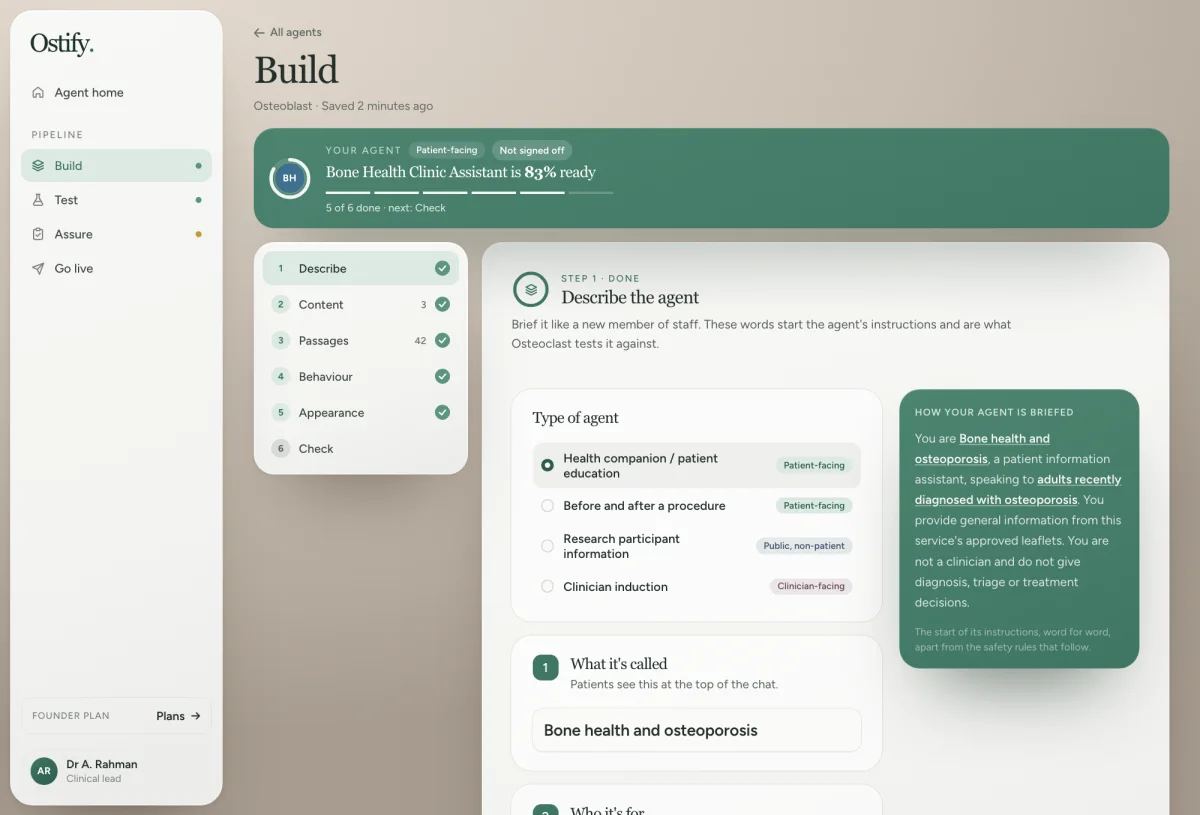
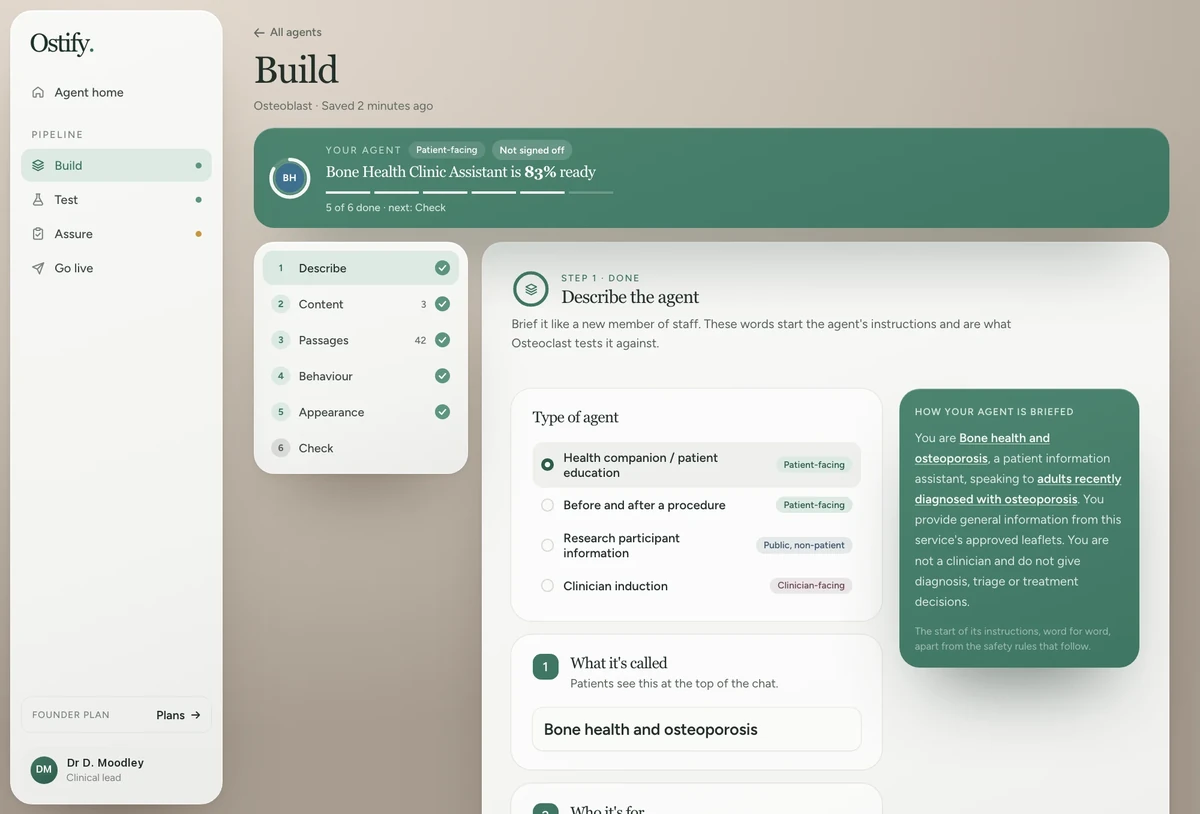
Product screenshots: show Dr D. Moodley as the signed-in clinician

diff --git a/how-it-works/index.html b/how-it-works/index.html
@@ -138,10 +138,10 @@
       <p class="xs-lede">A simple first version takes about 10 minutes. After that, Build is where the quality of your agent is decided. Upload as much as you can, take your time over the passages, and talk to it until it sounds like your service.</p>
       <div class="xgal" data-gal>
         <div class="xgal-tabs" role="tablist" aria-label="Build steps"><button type="button" role="tab" id="gt-build-describe" aria-controls="gp-build-describe" aria-selected="true" tabindex="0">Describe</button><button type="button" role="tab" id="gt-build-content" aria-controls="gp-build-content" aria-selected="false" tabindex="-1">Content</button><button type="button" role="tab" id="gt-build-behaviour" aria-controls="gp-build-behaviour" aria-selected="false" tabindex="-1">Behaviour</button><button type="button" role="tab" id="gt-build-appearance" aria-controls="gp-build-appearance" aria-selected="false" tabindex="-1">Appearance</button></div>
-        <div class="xgal-panel" role="tabpanel" id="gp-build-describe" aria-labelledby="gt-build-describe"><figure class="xplate"><div class="xwin xdev xdev--mac" data-parallax="-0.06"><div class="xwin-bar" aria-hidden="true"><i></i><i></i><i></i><span>app.ostify.co.uk</span></div><img src="/images/app/build-describe-1200.webp" srcset="/images/app/build-describe-1200.webp 1200w, /images/app/build-describe-2000.webp 2000w" sizes="(max-width:820px) 100vw, 900px" alt="Osteoblast Describe step: the agent’s name, who it is for and what it helps with, beside a preview of how the agent is briefed." width="2000" height="1357" loading="lazy" decoding="async"></div></figure><p class="xcap">Brief it like a new member of staff, and see exactly how the agent is instructed.</p></div>
-        <div class="xgal-panel" role="tabpanel" id="gp-build-content" aria-labelledby="gt-build-content" hidden><figure class="xplate"><div class="xwin xdev xdev--ipad" data-parallax="-0.06"><div class="xwin-bar" aria-hidden="true"><i></i><i></i><i></i><span>app.ostify.co.uk</span></div><img src="/images/app/build-content-1200.webp" srcset="/images/app/build-content-1200.webp 1200w, /images/app/build-content-2000.webp 2000w" sizes="(max-width:820px) 100vw, 900px" alt="Osteoblast Content step: upload a file, write text or add a question and answer, with the uploaded DEXA leaflet listed." width="2000" height="1357" loading="lazy" decoding="async"></div></figure><p class="xcap">Upload leaflets, write your own text or add single questions and answers.</p></div>
-        <div class="xgal-panel" role="tabpanel" id="gp-build-behaviour" aria-labelledby="gt-build-behaviour" hidden><figure class="xplate"><div class="xwin xdev xdev--mac" data-parallax="-0.06"><div class="xwin-bar" aria-hidden="true"><i></i><i></i><i></i><span>app.ostify.co.uk</span></div><img src="/images/app/build-behaviour-1200.webp" srcset="/images/app/build-behaviour-1200.webp 1200w, /images/app/build-behaviour-2000.webp 2000w" sizes="(max-width:820px) 100vw, 900px" alt="Osteoblast Behaviour step: reading level, warmth and answer length, and rules the agent must never break." width="2000" height="1357" loading="lazy" decoding="async"></div></figure><p class="xcap">Set reading level, warmth and length, and write the lines it must never cross.</p></div>
-        <div class="xgal-panel" role="tabpanel" id="gp-build-appearance" aria-labelledby="gt-build-appearance" hidden><figure class="xplate"><div class="xwin xdev xdev--ipad" data-parallax="-0.06"><div class="xwin-bar" aria-hidden="true"><i></i><i></i><i></i><span>app.ostify.co.uk</span></div><img src="/images/app/build-appearance-1200.webp" srcset="/images/app/build-appearance-1200.webp 1200w, /images/app/build-appearance-2000.webp 2000w" sizes="(max-width:820px) 100vw, 900px" alt="Osteoblast Appearance step: friendly name, logo and first message, with a live phone preview." width="2000" height="1357" loading="lazy" decoding="async"></div></figure><p class="xcap">Name, logo and welcome message, with a live phone preview.</p></div>
+        <div class="xgal-panel" role="tabpanel" id="gp-build-describe" aria-labelledby="gt-build-describe"><figure class="xplate"><div class="xwin xdev xdev--mac" data-parallax="-0.06"><div class="xwin-bar" aria-hidden="true"><i></i><i></i><i></i><span>app.ostify.co.uk</span></div><img src="/images/app/build-describe-1200.webp?v=2" srcset="/images/app/build-describe-1200.webp?v=2 1200w, /images/app/build-describe-2000.webp?v=2 2000w" sizes="(max-width:820px) 100vw, 900px" alt="Osteoblast Describe step: the agent’s name, who it is for and what it helps with, beside a preview of how the agent is briefed." width="2000" height="1357" loading="lazy" decoding="async"></div></figure><p class="xcap">Brief it like a new member of staff, and see exactly how the agent is instructed.</p></div>
+        <div class="xgal-panel" role="tabpanel" id="gp-build-content" aria-labelledby="gt-build-content" hidden><figure class="xplate"><div class="xwin xdev xdev--ipad" data-parallax="-0.06"><div class="xwin-bar" aria-hidden="true"><i></i><i></i><i></i><span>app.ostify.co.uk</span></div><img src="/images/app/build-content-1200.webp?v=2" srcset="/images/app/build-content-1200.webp?v=2 1200w, /images/app/build-content-2000.webp?v=2 2000w" sizes="(max-width:820px) 100vw, 900px" alt="Osteoblast Content step: upload a file, write text or add a question and answer, with the uploaded DEXA leaflet listed." width="2000" height="1357" loading="lazy" decoding="async"></div></figure><p class="xcap">Upload leaflets, write your own text or add single questions and answers.</p></div>
+        <div class="xgal-panel" role="tabpanel" id="gp-build-behaviour" aria-labelledby="gt-build-behaviour" hidden><figure class="xplate"><div class="xwin xdev xdev--mac" data-parallax="-0.06"><div class="xwin-bar" aria-hidden="true"><i></i><i></i><i></i><span>app.ostify.co.uk</span></div><img src="/images/app/build-behaviour-1200.webp?v=2" srcset="/images/app/build-behaviour-1200.webp?v=2 1200w, /images/app/build-behaviour-2000.webp?v=2 2000w" sizes="(max-width:820px) 100vw, 900px" alt="Osteoblast Behaviour step: reading level, warmth and answer length, and rules the agent must never break." width="2000" height="1357" loading="lazy" decoding="async"></div></figure><p class="xcap">Set reading level, warmth and length, and write the lines it must never cross.</p></div>
+        <div class="xgal-panel" role="tabpanel" id="gp-build-appearance" aria-labelledby="gt-build-appearance" hidden><figure class="xplate"><div class="xwin xdev xdev--ipad" data-parallax="-0.06"><div class="xwin-bar" aria-hidden="true"><i></i><i></i><i></i><span>app.ostify.co.uk</span></div><img src="/images/app/build-appearance-1200.webp?v=2" srcset="/images/app/build-appearance-1200.webp?v=2 1200w, /images/app/build-appearance-2000.webp?v=2 2000w" sizes="(max-width:820px) 100vw, 900px" alt="Osteoblast Appearance step: friendly name, logo and first message, with a live phone preview." width="2000" height="1357" loading="lazy" decoding="async"></div></figure><p class="xcap">Name, logo and welcome message, with a live phone preview.</p></div>
       </div>
       <dl class="xdl">
         <div><dt>Define it</dt><dd>Who it is for, what it helps with and where it stops.</dd></div>
@@ -173,7 +173,7 @@
         <li><b>Review</b><span>You and at least one other clinician accept or overrule every score, using a shared review link.</span></li>
         <li><b>Report</b><span>Share an evaluation report with your stakeholders.</span></li>
       </ol>
-      <figure class="xplate"><div class="xwin xdev xdev--mac" data-parallax="-0.06"><div class="xwin-bar" aria-hidden="true"><i></i><i></i><i></i><span>app.ostify.co.uk</span></div><img src="/images/app/test-prepare-1200.webp" srcset="/images/app/test-prepare-1200.webp 1200w, /images/app/test-prepare-2000.webp 2000w" sizes="(max-width:820px) 100vw, 900px" alt="Osteoclast Prepare step: choosing how many questions to generate, with a breakdown of emergencies, edge-of-scope, out-of-scope and trick questions plus the fixed safety core." width="2000" height="1357" loading="lazy" decoding="async"></div></figure>
+      <figure class="xplate"><div class="xwin xdev xdev--mac" data-parallax="-0.06"><div class="xwin-bar" aria-hidden="true"><i></i><i></i><i></i><span>app.ostify.co.uk</span></div><img src="/images/app/test-prepare-1200.webp?v=2" srcset="/images/app/test-prepare-1200.webp?v=2 1200w, /images/app/test-prepare-2000.webp?v=2 2000w" sizes="(max-width:820px) 100vw, 900px" alt="Osteoclast Prepare step: choosing how many questions to generate, with a breakdown of emergencies, edge-of-scope, out-of-scope and trick questions plus the fixed safety core." width="2000" height="1357" loading="lazy" decoding="async"></div></figure>
       <p class="xcap">Choose how many questions to generate. Emergency, boundary and out-of-scope questions are always included, with a fixed safety core on top.</p>
       <div class="xcols">
         <div>
@@ -219,7 +219,7 @@
     <div class="xstage-main">
       <h2>No agent reaches a patient until we have reviewed it.</h2>
       <p class="xs-lede">We check your content and guidelines, confirm the agent stays outside medical device territory, and try to make it misbehave, including with prompt injection. Approval is not a safety guarantee. That decision stays with your organisation, and with your clinical safety officer if your service is commissioned by the NHS or a local authority.</p>
-      <figure class="xplate"><div class="xwin xdev xdev--mac" data-parallax="-0.06"><div class="xwin-bar" aria-hidden="true"><i></i><i></i><i></i><span>app.ostify.co.uk</span></div><img src="/images/app/golive-1200.webp" srcset="/images/app/golive-1200.webp 1200w, /images/app/golive-2000.webp 2000w" sizes="(max-width:820px) 100vw, 900px" alt="Go live screen: an agent submitted to Ostify for review, with the readiness checklist a reviewer looks at." width="2000" height="1357" loading="lazy" decoding="async"></div></figure>
+      <figure class="xplate"><div class="xwin xdev xdev--mac" data-parallax="-0.06"><div class="xwin-bar" aria-hidden="true"><i></i><i></i><i></i><span>app.ostify.co.uk</span></div><img src="/images/app/golive-1200.webp?v=2" srcset="/images/app/golive-1200.webp?v=2 1200w, /images/app/golive-2000.webp?v=2 2000w" sizes="(max-width:820px) 100vw, 900px" alt="Go live screen: an agent submitted to Ostify for review, with the readiness checklist a reviewer looks at." width="2000" height="1357" loading="lazy" decoding="async"></div></figure>
       <p class="xcap">Submit when you are ready. The readiness checklist shows what the reviewer will look at.</p>
       <dl class="xspec">
         <div><dt>Reviews</dt><dd><b>Included in your plan</b>The Clinician plan includes one deployment review a year, and the Small organisation plan two. Further reviews are £2,000 to £3,000. <a href="/plans/">See pricing</a>.</dd></div>

diff --git a/guides/quickstart/index.html b/guides/quickstart/index.html
@@ -114,12 +114,12 @@
     <p>You can have a first version working in 10 to 15 minutes. An agent that is ready for the people you look after takes more: more content, more specific answers and more testing. This guide covers both.</p>
     <h2>Six steps to a first version</h2>
     <ol class="xqs-steps"><li><b>Sign up</b><span><a data-signup href="https://api.ostify.co.uk/.auth/login/ostifycustomerauth?prompt=create&amp;post_login_redirect_uri=https://app.ostify.co.uk/">Create your free account</a>.</span></li><li><b>Describe your agent</b><span>Its name, who it is for and what it helps with.</span></li><li><b>Add one leaflet</b><span>One you already hand out is enough to begin.</span></li><li><b>Approve the passages</b><span>Ostify splits your leaflet into passages (short sections). Approve the ones it may use.</span></li><li><b>Set how it talks</b><span>Reading level, tone and any rule it must never break.</span></li><li><b>Say hello</b><span>Talk to it on the simulated phone, or scan the code and use your own.</span></li></ol>
-    <figure class="xplate xqs-shot"><div class="xwin xdev xdev--ipad"><div class="xwin-bar" aria-hidden="true"><i></i><i></i><i></i><span>app.ostify.co.uk</span></div><img src="/images/app/build-appearance-1200.webp" srcset="/images/app/build-appearance-1200.webp 1200w, /images/app/build-appearance-2000.webp 2000w" sizes="(max-width:820px) 100vw, 680px" alt="Osteoblast Appearance step: friendly name, logo and first message, with a live phone preview." width="2000" height="1357" loading="lazy" decoding="async"></div></figure>
+    <figure class="xplate xqs-shot"><div class="xwin xdev xdev--ipad"><div class="xwin-bar" aria-hidden="true"><i></i><i></i><i></i><span>app.ostify.co.uk</span></div><img src="/images/app/build-appearance-1200.webp?v=2" srcset="/images/app/build-appearance-1200.webp?v=2 1200w, /images/app/build-appearance-2000.webp?v=2 2000w" sizes="(max-width:820px) 100vw, 680px" alt="Osteoblast Appearance step: friendly name, logo and first message, with a live phone preview." width="2000" height="1357" loading="lazy" decoding="async"></div></figure>
     <p class="xcap">Your agent, on a phone, a few minutes after you started.</p>
     <h2>Brief it like a new colleague</h2>
     <p>The description is the first thing your agent reads, and it shapes every answer. Compare these two, written for an imaginary endoscopy unit.</p>
     <div class="xqs-vs"><div class="xqs-card"><span class="xl">A one-liner</span><p>“Answers questions about colonoscopy.”</p><p class="xqs-foot">It works, but the agent has to guess the rest.</p></div><div class="xqs-card xqs-card--rich"><span class="xl">A proper briefing</span><dl><dt>Who it is for</dt><dd>Adults booked for a colonoscopy at our unit, and the relatives or carers helping them.</dd><dt>What it helps with</dt><dd>Getting ready, what happens on the day, and what to expect afterwards.</dd><dt>What people usually ask</dt><dd>When to stop eating, how to take the bowel preparation, whether they can drive home, how long they will be with us.</dd><dt>Where it stops</dt><dd>No results, no changing appointments, no advice on a person’s own medicines. For those, it gives the unit’s phone number.</dd></dl><p class="xqs-foot">Now its answers sound like your service.</p></div></div>
-    <figure class="xplate xqs-shot"><div class="xwin xdev xdev--mac"><div class="xwin-bar" aria-hidden="true"><i></i><i></i><i></i><span>app.ostify.co.uk</span></div><img src="/images/app/build-describe-1200.webp" srcset="/images/app/build-describe-1200.webp 1200w, /images/app/build-describe-2000.webp 2000w" sizes="(max-width:820px) 100vw, 680px" alt="Osteoblast Describe step: the agent’s name, who it is for and what it helps with, beside a preview of how the agent is briefed." width="2000" height="1357" loading="lazy" decoding="async"></div></figure>
+    <figure class="xplate xqs-shot"><div class="xwin xdev xdev--mac"><div class="xwin-bar" aria-hidden="true"><i></i><i></i><i></i><span>app.ostify.co.uk</span></div><img src="/images/app/build-describe-1200.webp?v=2" srcset="/images/app/build-describe-1200.webp?v=2 1200w, /images/app/build-describe-2000.webp?v=2 2000w" sizes="(max-width:820px) 100vw, 680px" alt="Osteoblast Describe step: the agent’s name, who it is for and what it helps with, beside a preview of how the agent is briefed." width="2000" height="1357" loading="lazy" decoding="async"></div></figure>
     <p class="xcap">The Describe step. You can see exactly how your agent is briefed.</p>
     <h2>Feed it well</h2>
     <p>Your agent answers only from what you give it, so more good content means better answers.</p>
@@ -127,7 +127,7 @@
     <p>Worth adding once your first leaflet is in:</p>
     <ul class="xqs-check"><li>Every leaflet for the pathway: preparation, the day itself, aftercare and consent.</li><li>The wording of your appointment letters and text reminders.</li><li>Directions, parking, opening hours and who to phone.</li><li>The questions your reception or booking team answer every day.</li><li>Local policies that change the answer, such as who can come along or what to bring.</li></ul>
     <p>Each addition closes a gap where the agent would otherwise say it does not know. <a href="/guides/preparing-content/">Preparing your content</a> covers what to upload and what to leave out.</p>
-    <figure class="xplate xqs-shot"><div class="xwin xdev xdev--ipad"><div class="xwin-bar" aria-hidden="true"><i></i><i></i><i></i><span>app.ostify.co.uk</span></div><img src="/images/app/build-content-1200.webp" srcset="/images/app/build-content-1200.webp 1200w, /images/app/build-content-2000.webp 2000w" sizes="(max-width:820px) 100vw, 680px" alt="Osteoblast Content step: upload a file, write text or add a question and answer, with the uploaded DEXA leaflet listed." width="2000" height="1357" loading="lazy" decoding="async"></div></figure>
+    <figure class="xplate xqs-shot"><div class="xwin xdev xdev--ipad"><div class="xwin-bar" aria-hidden="true"><i></i><i></i><i></i><span>app.ostify.co.uk</span></div><img src="/images/app/build-content-1200.webp?v=2" srcset="/images/app/build-content-1200.webp?v=2 1200w, /images/app/build-content-2000.webp?v=2 2000w" sizes="(max-width:820px) 100vw, 680px" alt="Osteoblast Content step: upload a file, write text or add a question and answer, with the uploaded DEXA leaflet listed." width="2000" height="1357" loading="lazy" decoding="async"></div></figure>
     <p class="xcap">The Content step: upload files, write text, or add single questions and answers.</p>
     <h2>Teach it the small stuff</h2>
     <p>Leaflets rarely cover the small, practical questions, and those are the ones people ask most. A question-and-answer pair (one question with the exact answer you approve) covers each one precisely. Here is the level of detail to aim for. Yours should use your own service’s arrangements.</p>

diff --git a/index.html b/index.html
@@ -233,15 +233,15 @@
     </figure>
     <div class="xsh-tabs" role="tablist" aria-label="Product screens"><button type="button" role="tab" id="xsh-tab-build" aria-controls="xsh-build" aria-selected="true"><span>1</span>Build</button><button type="button" role="tab" id="xsh-tab-shape" aria-controls="xsh-shape" aria-selected="false" tabindex="-1"><span>2</span>Shape</button><button type="button" role="tab" id="xsh-tab-test" aria-controls="xsh-test" aria-selected="false" tabindex="-1"><span>3</span>Test</button></div>
     <div class="xsh-panel" role="tabpanel" id="xsh-build" aria-labelledby="xsh-tab-build">
-      <figure class="xsh-shot"><div class="xwin xdev xdev--mac"><div class="xwin-bar" aria-hidden="true"><i></i><i></i><i></i><span>app.ostify.co.uk</span></div><div class="xsh-img"><img src="/images/app/build-content-1200.webp" srcset="/images/app/build-content-1200.webp 1200w, /images/app/build-content-2000.webp 2000w" sizes="(max-width:820px) 100vw, 860px" alt="The Ostify add your content screen" width="1200" height="814" loading="lazy" decoding="async"><span class="xsh-dot" style="left:47%;top:46%" aria-hidden="true">1</span><span class="xsh-dot" style="left:77%;top:92%" aria-hidden="true">2</span><span class="xsh-dot" style="left:44%;top:6%" aria-hidden="true">3</span></div></div></figure>
+      <figure class="xsh-shot"><div class="xwin xdev xdev--mac"><div class="xwin-bar" aria-hidden="true"><i></i><i></i><i></i><span>app.ostify.co.uk</span></div><div class="xsh-img"><img src="/images/app/build-content-1200.webp?v=2" srcset="/images/app/build-content-1200.webp?v=2 1200w, /images/app/build-content-2000.webp?v=2 2000w" sizes="(max-width:820px) 100vw, 860px" alt="The Ostify add your content screen" width="1200" height="814" loading="lazy" decoding="async"><span class="xsh-dot" style="left:47%;top:46%" aria-hidden="true">1</span><span class="xsh-dot" style="left:77%;top:92%" aria-hidden="true">2</span><span class="xsh-dot" style="left:44%;top:6%" aria-hidden="true">3</span></div></div></figure>
       <ol class="xsh-notes"><li><span class="xsh-n" aria-hidden="true">1</span><div><b>Your content in</b><p>Upload leaflets, guidelines or policies, or write your own question-and-answer pairs.</p></div></li><li><span class="xsh-n" aria-hidden="true">2</span><div><b>Only what you approve</b><p>Every file is split into passages. The agent can only use the ones you sign off.</p></div></li><li><span class="xsh-n" aria-hidden="true">3</span><div><b>Readiness at a glance</b><p>See how close your agent is to ready, step by step.</p></div></li></ol>
     </div>
     <div class="xsh-panel" role="tabpanel" id="xsh-shape" aria-labelledby="xsh-tab-shape" hidden>
-      <figure class="xsh-shot"><div class="xwin xdev xdev--mac"><div class="xwin-bar" aria-hidden="true"><i></i><i></i><i></i><span>app.ostify.co.uk</span></div><div class="xsh-img"><img src="/images/app/build-behaviour-1200.webp" srcset="/images/app/build-behaviour-1200.webp 1200w, /images/app/build-behaviour-2000.webp 2000w" sizes="(max-width:820px) 100vw, 860px" alt="The Ostify set how it talks screen" width="1200" height="814" loading="lazy" decoding="async"><span class="xsh-dot" style="left:60%;top:47%" aria-hidden="true">1</span><span class="xsh-dot" style="left:88%;top:52%" aria-hidden="true">2</span><span class="xsh-dot" style="left:62%;top:88%" aria-hidden="true">3</span></div></div></figure>
+      <figure class="xsh-shot"><div class="xwin xdev xdev--mac"><div class="xwin-bar" aria-hidden="true"><i></i><i></i><i></i><span>app.ostify.co.uk</span></div><div class="xsh-img"><img src="/images/app/build-behaviour-1200.webp?v=2" srcset="/images/app/build-behaviour-1200.webp?v=2 1200w, /images/app/build-behaviour-2000.webp?v=2 2000w" sizes="(max-width:820px) 100vw, 860px" alt="The Ostify set how it talks screen" width="1200" height="814" loading="lazy" decoding="async"><span class="xsh-dot" style="left:60%;top:47%" aria-hidden="true">1</span><span class="xsh-dot" style="left:88%;top:52%" aria-hidden="true">2</span><span class="xsh-dot" style="left:62%;top:88%" aria-hidden="true">3</span></div></div></figure>
       <ol class="xsh-notes"><li><span class="xsh-n" aria-hidden="true">1</span><div><b>Choose the voice</b><p>Reading level, warmth and answer length, with a live sample as you change them.</p></div></li><li><span class="xsh-n" aria-hidden="true">2</span><div><b>See it before patients do</b><p>A live preview shows how answers will read. Then scan a code to try your own app on your phone, free.</p></div></li><li><span class="xsh-n" aria-hidden="true">3</span><div><b>Lines it never crosses</b><p>No diagnosis, no personal treatment advice. Add your own rules on top.</p></div></li></ol>
     </div>
     <div class="xsh-panel" role="tabpanel" id="xsh-test" aria-labelledby="xsh-tab-test" hidden>
-      <figure class="xsh-shot"><div class="xwin xdev xdev--mac"><div class="xwin-bar" aria-hidden="true"><i></i><i></i><i></i><span>app.ostify.co.uk</span></div><div class="xsh-img"><img src="/images/app/test-prepare-1200.webp" srcset="/images/app/test-prepare-1200.webp 1200w, /images/app/test-prepare-2000.webp 2000w" sizes="(max-width:820px) 100vw, 860px" alt="The Ostify prove it is safe screen" width="1200" height="814" loading="lazy" decoding="async"><span class="xsh-dot" style="left:88%;top:62%" aria-hidden="true">1</span><span class="xsh-dot" style="left:52%;top:62%" aria-hidden="true">2</span><span class="xsh-dot" style="left:40%;top:15%" aria-hidden="true">3</span></div></div></figure>
+      <figure class="xsh-shot"><div class="xwin xdev xdev--mac"><div class="xwin-bar" aria-hidden="true"><i></i><i></i><i></i><span>app.ostify.co.uk</span></div><div class="xsh-img"><img src="/images/app/test-prepare-1200.webp?v=2" srcset="/images/app/test-prepare-1200.webp?v=2 1200w, /images/app/test-prepare-2000.webp?v=2 2000w" sizes="(max-width:820px) 100vw, 860px" alt="The Ostify prove it is safe screen" width="1200" height="814" loading="lazy" decoding="async"><span class="xsh-dot" style="left:88%;top:62%" aria-hidden="true">1</span><span class="xsh-dot" style="left:52%;top:62%" aria-hidden="true">2</span><span class="xsh-dot" style="left:40%;top:15%" aria-hidden="true">3</span></div></div></figure>
       <ol class="xsh-notes"><li><span class="xsh-n" aria-hidden="true">1</span><div><b>Questions written for you</b><p>Emergencies, edge cases and attempts to trick it, plus a fixed safety core.</p></div></li><li><span class="xsh-n" aria-hidden="true">2</span><div><b>Choose how thorough</b><p>From a quick 30-question check to a 300-question run.</p></div></li><li><span class="xsh-n" aria-hidden="true">3</span><div><b>Every run kept</b><p>Compare runs over time and sign off when you are happy.</p></div></li></ol>
     </div>
   </div>

diff --git a/news/app-update/index.html b/news/app-update/index.html
@@ -132,7 +132,7 @@
 <section class="xs">
   <div class="xw xpost">
     <p>We have refreshed the Ostify app. It has a lighter, calmer look, with more space and clearer steps, so it is easier to see where you are and what comes next. It is live today, and there is nothing you need to do.</p>
-    <figure class="xsh-shot"><div class="xwin xdev xdev--mac"><div class="xwin-bar" aria-hidden="true"><i></i><i></i><i></i><span>app.ostify.co.uk</span></div><div class="xsh-img"><img src="/images/app/build-content-1200.webp" srcset="/images/app/build-content-1200.webp 1200w, /images/app/build-content-2000.webp 2000w" sizes="(max-width:820px) 100vw, 860px" alt="The refreshed Ostify app, on the add your content screen" width="1200" height="814" loading="lazy" decoding="async"></div></div></figure>
+    <figure class="xsh-shot"><div class="xwin xdev xdev--mac"><div class="xwin-bar" aria-hidden="true"><i></i><i></i><i></i><span>app.ostify.co.uk</span></div><div class="xsh-img"><img src="/images/app/build-content-1200.webp?v=2" srcset="/images/app/build-content-1200.webp?v=2 1200w, /images/app/build-content-2000.webp?v=2 2000w" sizes="(max-width:820px) 100vw, 860px" alt="The refreshed Ostify app, on the add your content screen" width="1200" height="814" loading="lazy" decoding="async"></div></div></figure>
     <h2>Shaped by your feedback</h2>
     <p>This update did not come from a single redesign. It came from many small rounds of listening to clinicians as they built their agents, noting where they paused or got stuck, and changing the app a little each time. The new look brings those changes together.</p>
     <p>The way you work has not changed. You still build your agent from your own clinical content, test it, review it and take it live, in the same steps as before. Your agents, content and settings are just as you left them.</p>

diff --git a/assurance/index.html b/assurance/index.html
@@ -164,7 +164,7 @@
     <div class="xstage-main">
       <h2>Nine documents drafted from your build and evaluation.</h2>
       <p class="xs-lede">Each record is drafted from your agent. Read it, edit anything that isn’t right, then sign it as yours. The dashboard holds them alongside your own compliance documents, such as your DTAC form and DPIA.</p>
-      <figure class="xplate"><div class="xwin xdev xdev--mac" data-parallax="-0.06"><div class="xwin-bar" aria-hidden="true"><i></i><i></i><i></i><span>app.ostify.co.uk</span></div><img src="/images/app/assure-1200.webp" srcset="/images/app/assure-1200.webp 1200w, /images/app/assure-2000.webp 2000w" sizes="(max-width:820px) 100vw, 900px" alt="Osteocite Assure screen: nine records to read and sign, with your own compliance documents listed below." width="2000" height="1357" loading="lazy" decoding="async"></div></figure>
+      <figure class="xplate"><div class="xwin xdev xdev--mac" data-parallax="-0.06"><div class="xwin-bar" aria-hidden="true"><i></i><i></i><i></i><span>app.ostify.co.uk</span></div><img src="/images/app/assure-1200.webp?v=2" srcset="/images/app/assure-1200.webp?v=2 1200w, /images/app/assure-2000.webp?v=2 2000w" sizes="(max-width:820px) 100vw, 900px" alt="Osteocite Assure screen: nine records to read and sign, with your own compliance documents listed below." width="2000" height="1357" loading="lazy" decoding="async"></div></figure>
       <ol class="xindex">
         <li>Intended Purpose Statement</li><li>Device Classification Record</li><li>Scope Boundary and Crisis Response Specification</li>
         <li>Source Document Register</li><li>Clinician Review Record</li><li>Evaluation Report</li>
